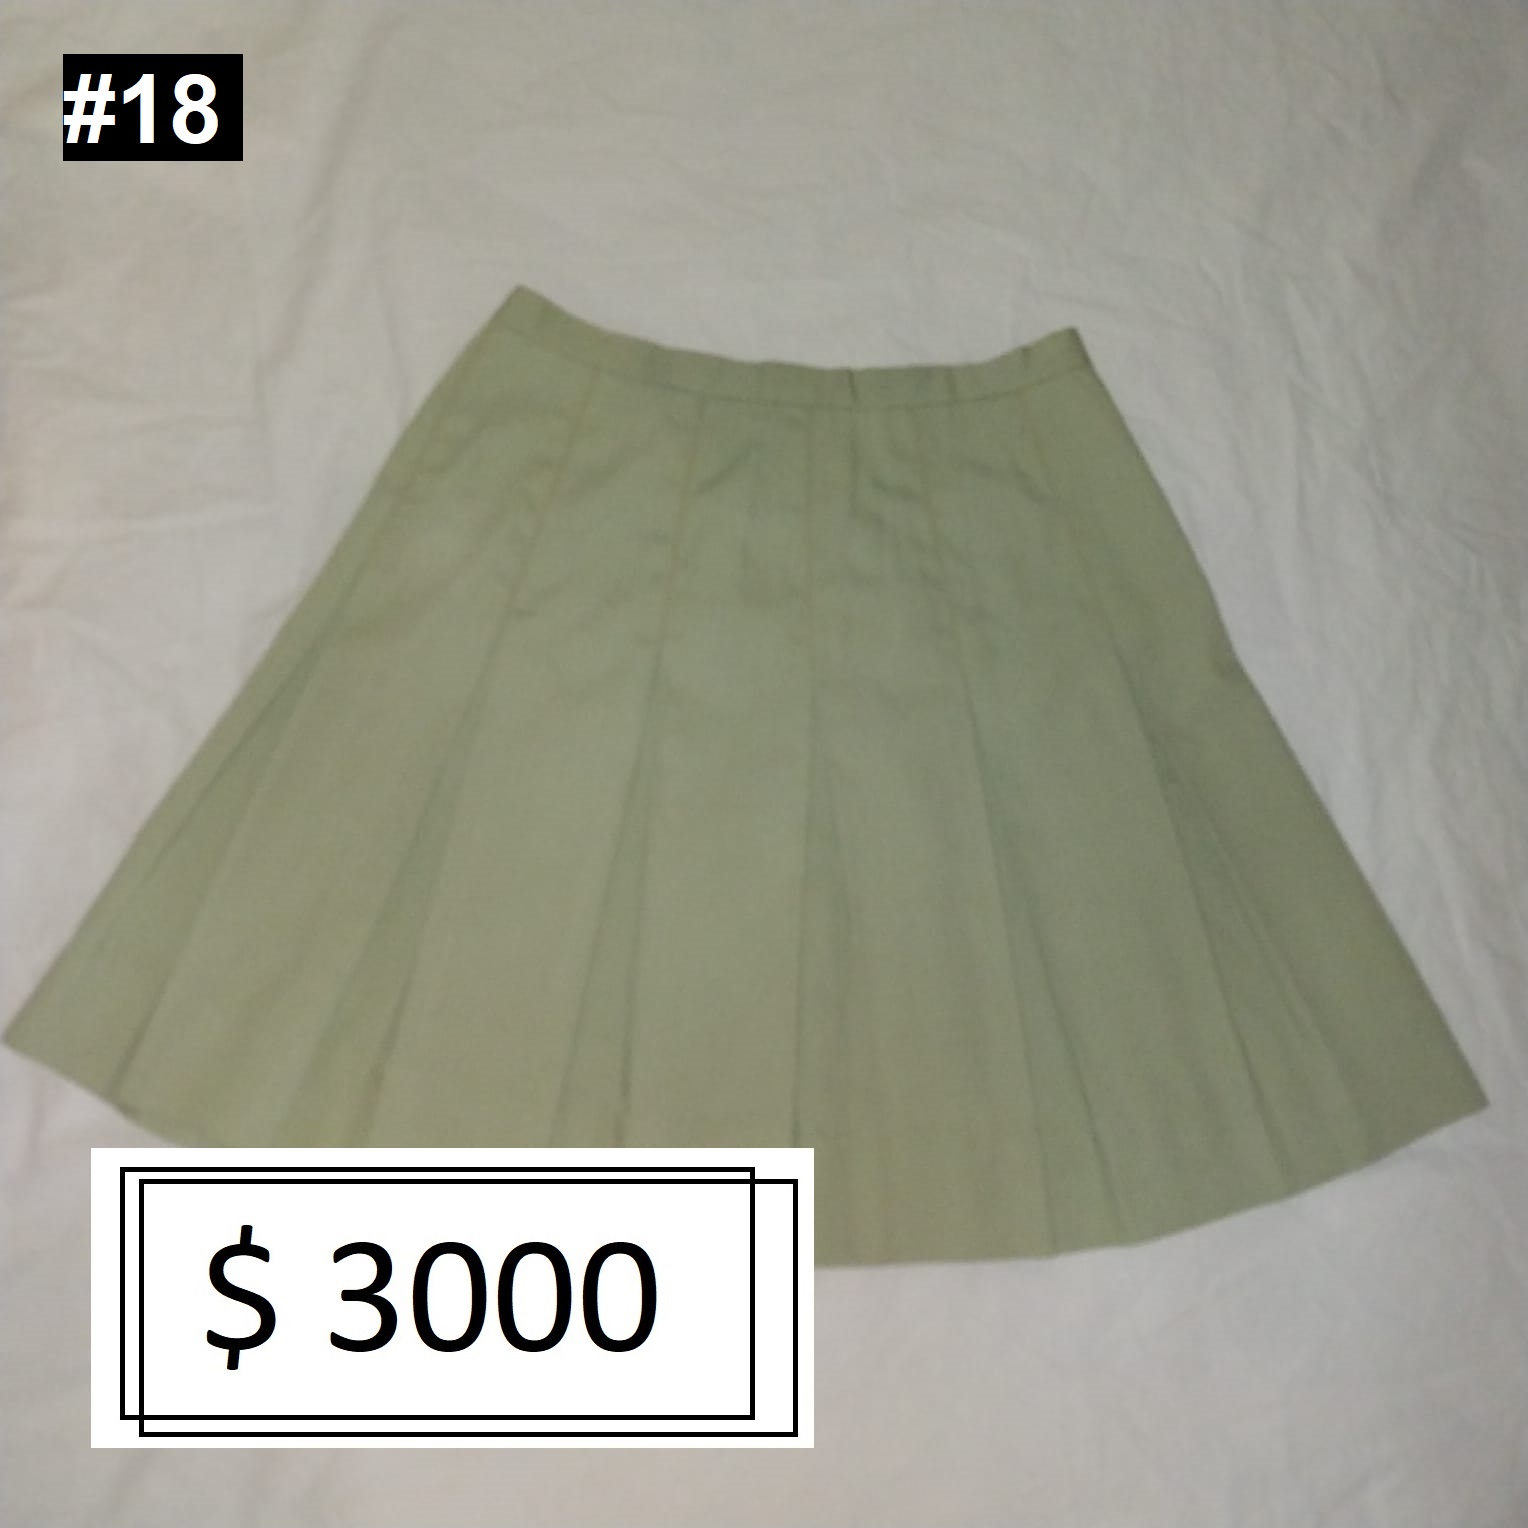
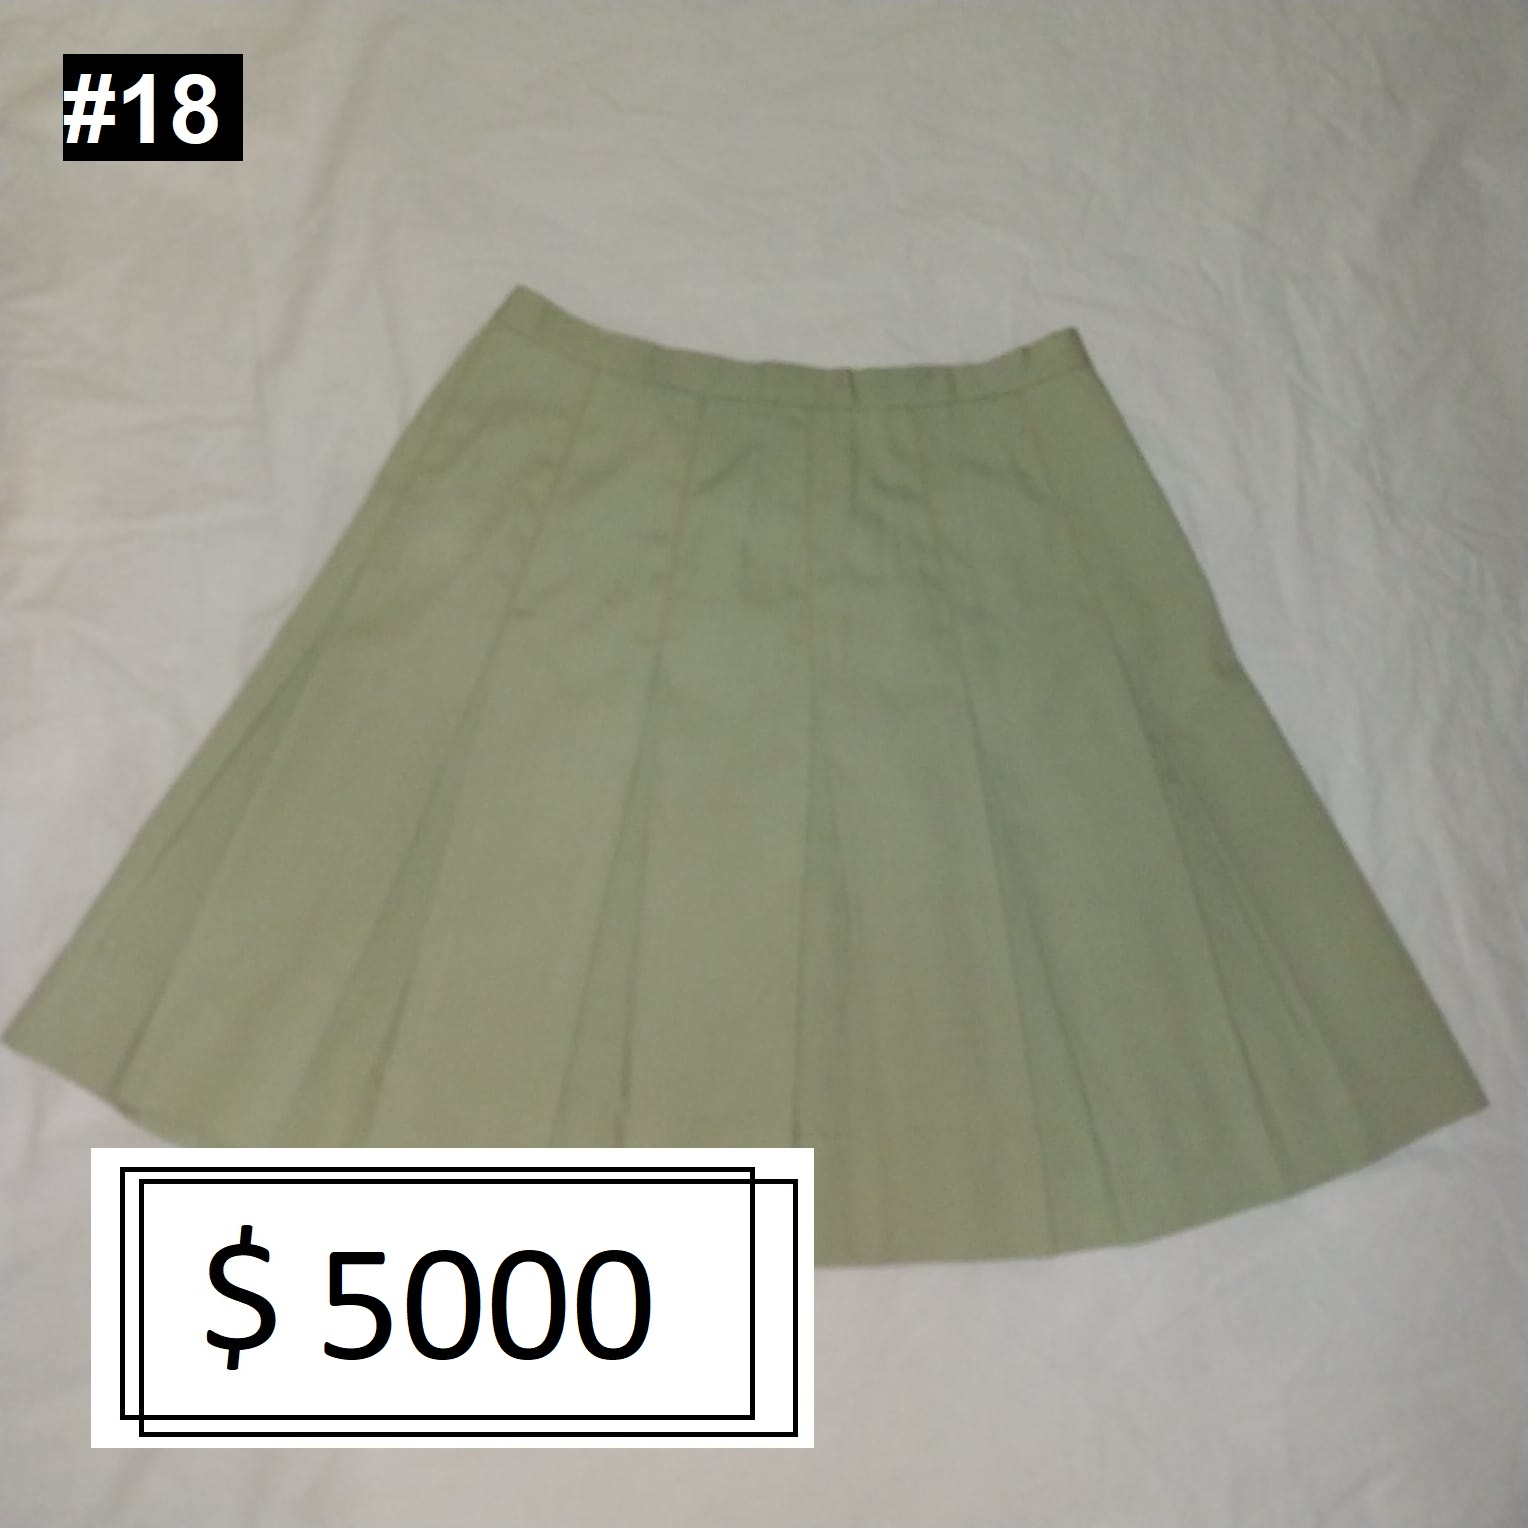
actualizacion 09/02

Changed region(s): [[0.2153, 0.7997, 0.4306, 0.892]]

diff --git a/pages/item039.html b/pages/item039.html
@@ -1,0 +1,34 @@
+<!DOCTYPE html>
+<html lang="en">
+<head>
+    <meta charset="UTF-8">
+    <meta name="viewport" content="width=device-width, initial-scale=1.0">
+    <title>Feria Americana</title>
+
+    <link rel="stylesheet" href="../css/global.css">
+
+</head>
+<body>
+    <header>
+        <h1>Feria Americana</h1>
+    </header>
+    <h2 class="descripcion">
+        39 - Pantalón negro de jean elastizado. Marca: Lunette Jeans. Talle: 40 skinny (36/38).
+    </h2>
+    <h2 class="precio">
+        -$7000-
+    </h2>
+    <div class="detalles">
+        <img class="img-detalles" src="../assets/img/038-1.jpeg" alt="038-1">
+        <img class="img-detalles" src="../assets/img/038-2.jpeg" alt="038-2">
+        <img class="img-detalles" src="../assets/img/038-3.jpeg" alt="038-3">
+        <img class="img-detalles" src="../assets/img/038-4.jpeg" alt="038-4">
+        <img class="img-detalles" src="../assets/img/038-5.jpeg" alt="038-5">
+        <img class="img-detalles" src="../assets/img/038-6.jpeg" alt="038-6">
+        <img class="img-detalles" src="../assets/img/038-7.jpeg" alt="038-7">
+        <img class="img-detalles" src="../assets/img/038-8.jpeg" alt="038-8">
+
+    </div>
+    <a class="volver" href="../index.html">Volver</a>
+</body>
+</html>

diff --git a/pages/item038.html b/pages/item038.html
@@ -1,0 +1,34 @@
+<!DOCTYPE html>
+<html lang="en">
+<head>
+    <meta charset="UTF-8">
+    <meta name="viewport" content="width=device-width, initial-scale=1.0">
+    <title>Feria Americana</title>
+
+    <link rel="stylesheet" href="../css/global.css">
+
+</head>
+<body>
+    <header>
+        <h1>Feria Americana</h1>
+    </header>
+    <h2 class="descripcion">
+        38 - Buzo estampado con capucha, largo. Marca: Adidas (imitación). Talle: S.
+    </h2>
+    <h2 class="precio">
+        -$7000-
+    </h2>
+    <div class="detalles">
+        <img class="img-detalles" src="../assets/img/038-1.jpeg" alt="038-1">
+        <img class="img-detalles" src="../assets/img/038-2.jpeg" alt="038-2">
+        <img class="img-detalles" src="../assets/img/038-3.jpeg" alt="038-3">
+        <img class="img-detalles" src="../assets/img/038-4.jpeg" alt="038-4">
+        <img class="img-detalles" src="../assets/img/038-5.jpeg" alt="038-5">
+        <img class="img-detalles" src="../assets/img/038-6.jpeg" alt="038-6">
+        <img class="img-detalles" src="../assets/img/038-7.jpeg" alt="038-7">
+        <img class="img-detalles" src="../assets/img/038-8.jpeg" alt="038-8">
+
+    </div>
+    <a class="volver" href="../index.html">Volver</a>
+</body>
+</html>

diff --git a/pages/item040.html b/pages/item040.html
@@ -1,0 +1,33 @@
+<!DOCTYPE html>
+<html lang="en">
+<head>
+    <meta charset="UTF-8">
+    <meta name="viewport" content="width=device-width, initial-scale=1.0">
+    <title>Feria Americana</title>
+
+    <link rel="stylesheet" href="../css/global.css">
+
+</head>
+<body>
+    <header>
+        <h1>Feria Americana</h1>
+    </header>
+    <h2 class="descripcion">
+        40 - Botitas negras cortas acordonadas. Talle: 38/39.
+    </h2>
+    <h2 class="precio">
+        -$20000-
+    </h2>
+    <div class="detalles">
+        <img class="img-detalles" src="../assets/img/040-1.jpeg" alt="040-1">
+        <img class="img-detalles" src="../assets/img/040-2.jpeg" alt="040-2">
+        <img class="img-detalles" src="../assets/img/040-3.jpeg" alt="040-3">
+        <img class="img-detalles" src="../assets/img/040-4.jpeg" alt="040-4">
+        <img class="img-detalles" src="../assets/img/040-5.jpeg" alt="040-5">
+        <img class="img-detalles" src="../assets/img/040-6.jpeg" alt="040-6">
+        <img class="img-detalles" src="../assets/img/040-7.jpeg" alt="040-7">
+
+    </div>
+    <a class="volver" href="../index.html">Volver</a>
+</body>
+</html>

diff --git a/pages/item036.html b/pages/item036.html
@@ -1,0 +1,32 @@
+<!DOCTYPE html>
+<html lang="en">
+<head>
+    <meta charset="UTF-8">
+    <meta name="viewport" content="width=device-width, initial-scale=1.0">
+    <title>Feria Americana</title>
+
+    <link rel="stylesheet" href="../css/global.css">
+
+</head>
+<body>
+    <header>
+        <h1>Feria Americana</h1>
+    </header>
+    <h2 class="descripcion">
+        36 - Sobre-vestido/chalina con flecos.
+    </h2>
+    <h2 class="precio">
+        -$3000-
+    </h2>
+    <div class="detalles">
+        <img class="img-detalles" src="../assets/img/036-1.jpeg" alt="036-1">
+        <img class="img-detalles" src="../assets/img/036-2.jpeg" alt="036-2">
+        <img class="img-detalles" src="../assets/img/036-3.jpeg" alt="036-3">
+        <img class="img-detalles" src="../assets/img/036-4.jpeg" alt="036-4">
+        <img class="img-detalles" src="../assets/img/036-5.jpeg" alt="036-5">
+        <img class="img-detalles" src="../assets/img/036-6.jpeg" alt="036-6">
+
+    </div>
+    <a class="volver" href="../index.html">Volver</a>
+</body>
+</html>

diff --git a/index.html b/index.html
@@ -44,6 +44,11 @@
         <a href="./pages/item032.html"><img class="img-index" src="./assets/img/032-main.jpg" alt="032"></a>
         <a href="./pages/item033.html"><img class="img-index" src="./assets/img/033-main.jpg" alt="033"></a>
         <a href="./pages/item035.html"><img class="img-index" src="./assets/img/035-main.jpg" alt="035"></a>
+        <a href="./pages/item035.html"><img class="img-index" src="./assets/img/036-main.jpg" alt="036"></a>
+        <a href="./pages/item037.html"><img class="img-index" src="./assets/img/037-main.jpg" alt="035"></a>
+        <a href="./pages/item038.html"><img class="img-index" src="./assets/img/038-main.jpg" alt="035"></a>
+        <a href="./pages/item039.html"><img class="img-index" src="./assets/img/039-main.jpg" alt="035"></a>
+        <a href="./pages/item040.html"><img class="img-index" src="./assets/img/040-main.jpg" alt="035"></a>
     </div>
 </body>
 </html>

diff --git a/pages/item037.html b/pages/item037.html
@@ -1,0 +1,29 @@
+<!DOCTYPE html>
+<html lang="en">
+<head>
+    <meta charset="UTF-8">
+    <meta name="viewport" content="width=device-width, initial-scale=1.0">
+    <title>Feria Americana</title>
+
+    <link rel="stylesheet" href="../css/global.css">
+
+</head>
+<body>
+    <header>
+        <h1>Feria Americana</h1>
+    </header>
+    <h2 class="descripcion">
+        37 - Remera animal print. Marca: No Boundaries. Talle: XL.
+    </h2>
+    <h2 class="precio">
+        -$5000-
+    </h2>
+    <div class="detalles">
+        <img class="img-detalles" src="../assets/img/037-1.jpeg" alt="037-1">
+        <img class="img-detalles" src="../assets/img/037-2.jpeg" alt="037-2">
+        <img class="img-detalles" src="../assets/img/037-3.jpeg" alt="037-3">
+
+    </div>
+    <a class="volver" href="../index.html">Volver</a>
+</body>
+</html>

diff --git a/pages/item013.html b/pages/item013.html
@@ -13,10 +13,10 @@
         <h1>Feria Americana</h1>
     </header>
     <h2 class="descripcion">
-        13 - Botas rojas de cuero, con cierre y detalle de cordones detrás. Marca: Miye Collazo. Talle: 39.
+        13 - Botas rojas de cuero, con cierre y detalle de cordones detrás. Marca: Miye Collazo. Con su caja original. Talle: 39.
     </h2>
     <h2 class="precio">
-        -$15000-
+        -$25000-
     </h2>
     <div class="detalles">
         <img class="img-detalles" src="../assets/img/013-1.jpeg" alt="013-1">

diff --git a/pages/item019.html b/pages/item019.html
@@ -16,7 +16,7 @@
         19 - Pollera Pin-up celeste con corazones, tiro alto con botón y cierre. Marca: Patadita de Mula. Talle: S.
     </h2>
     <h2 class="precio">
-        -$5000-
+        -$7000-
     </h2>
     <div class="detalles">
         <img class="img-detalles" src="../assets/img/019-1.jpeg" alt="019-1">

diff --git a/pages/item031.html b/pages/item031.html
@@ -16,7 +16,7 @@
         31 - Remera sin mangas tejida fina con cuello tipo polera, blanca con brillos. Marca: Dalani. Talle: M.
     </h2>
     <h2 class="precio">
-        -$3000-
+        -$5000-
     </h2>
     <div class="detalles">
         <img class="img-detalles" src="../assets/img/031-1.jpeg" alt="031-1">

diff --git a/pages/item020.html b/pages/item020.html
@@ -16,7 +16,7 @@
         20 - Corpiño/top deportivo taza soft gris con detalles en negro. Marca: Nike (original). Talle: L.
     </h2>
     <h2 class="precio">
-        -$10000-
+        -$15000-
     </h2>
     <div class="detalles">
         <img class="img-detalles" src="../assets/img/020-1.jpeg" alt="020-1">

diff --git a/pages/item022.html b/pages/item022.html
@@ -16,7 +16,7 @@
         22 - Remera sin mangas azul estampada con detalle en la espalda. Marca: Rose + Olive. Talle: S.
     </h2>
     <h2 class="precio">
-        -$2000-
+        -$2500-
     </h2>
     <div class="detalles">
         <img class="img-detalles" src="../assets/img/022-1.jpeg" alt="022-1">

diff --git a/pages/item029.html b/pages/item029.html
@@ -16,7 +16,7 @@
         29 - Buzo largo tipo vestido sin mangas, de media estación, con plush. Marca: Auka. Talle: 2.
     </h2>
     <h2 class="precio">
-        -$5000-
+        -$7000-
     </h2>
     <div class="detalles">
         <img class="img-detalles" src="../assets/img/029-1.jpeg" alt="029-1">
